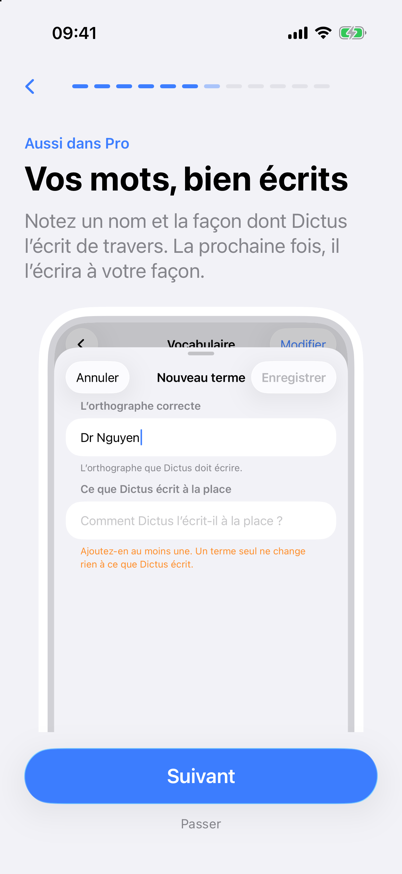
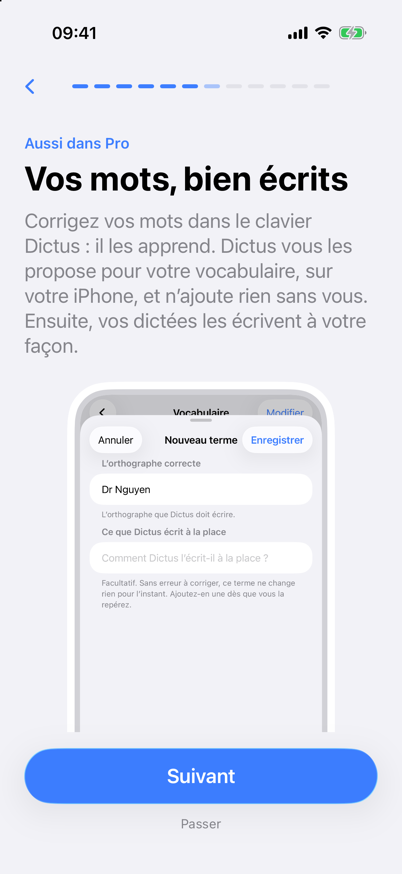
feat(vocabulary): explain how vocabulary suggestions work (#829)
The onboarding and What's New vocabulary line now explains the loop
instead of announcing the feature: corrections typed in the Dictus
keyboard are learned, Dictus suggests them as vocabulary terms (on
device, never added without the user), then terms fix dictations.

The Vocabulary screen's "How it works" card gets its own paragraph,
like Voice notes, naming the Analyze my transcriptions button and the
accept / edit / ignore choice. FR translations added, EN source keys
replaced; the old line key is removed. Screen-map captures refreshed.

refs #829

Changed region(s): [[0.0597, 0.2471, 0.9254, 0.8341]]

diff --git a/DictusApp/Onboarding/VocabularyScene.swift b/DictusApp/Onboarding/VocabularyScene.swift
@@ -37,10 +37,12 @@ struct VocabularySceneCard: View {
              comment: "Onboarding vocabulary scene: title (#680).")
     }
 
-    /// The line under the title, shared the same way.
+    /// The line under the title, shared the same way. It explains the loop rather than
+    /// announcing the feature (#829): keyboard corrections are learned, offered as terms,
+    /// then applied to dictations.
     static var line: Text {
-        Text("Note a name and the way Dictus gets it wrong. Next time, it will write it your way.",
-             comment: "Onboarding vocabulary scene: the line under the title (#680).")
+        Text("Correct your words in the Dictus keyboard: it learns them. Dictus suggests them for your vocabulary, on your iPhone, and adds nothing without you. After that, your dictations write them your way.",
+             comment: "Onboarding vocabulary scene: the line under the title, also shown in What's New and the \"See the demo\" sheet. Explains the loop: corrections typed in the keyboard are learned, suggested as vocabulary terms (never added automatically), then applied to dictations (#680, #829).")
     }
 
     var body: some View {

diff --git a/DictusApp/Views/VocabularyListView.swift b/DictusApp/Views/VocabularyListView.swift
@@ -62,7 +62,14 @@ struct VocabularyListView: View {
             ProFeatureSwitchSection(feature: .vocabulary)
 
             // What the feature does, and its demo (#686).
-            ProFeatureHowItWorksSection(feature: .vocabulary, isAvailable: isAvailable)
+            // Its own paragraph, like Voice notes: this screen is where the suggestions
+            // live, so it names the button that finds them (#829).
+            ProFeatureHowItWorksSection(
+                feature: .vocabulary,
+                explanation: Text("Correct your words in the Dictus keyboard: it learns them. Tap Analyze my transcriptions: Dictus compares them with your dictations and suggests terms to accept, edit or ignore. Nothing is added without you, and everything stays on your iPhone. Your terms then correct your dictations automatically.",
+                                  comment: "Vocabulary screen: the paragraph of the \"How it works\" card. 'Analyze my transcriptions' is the button further down the same screen (#829)."),
+                isAvailable: isAvailable
+            )
 
             Section {
                 if store.isEmpty {
